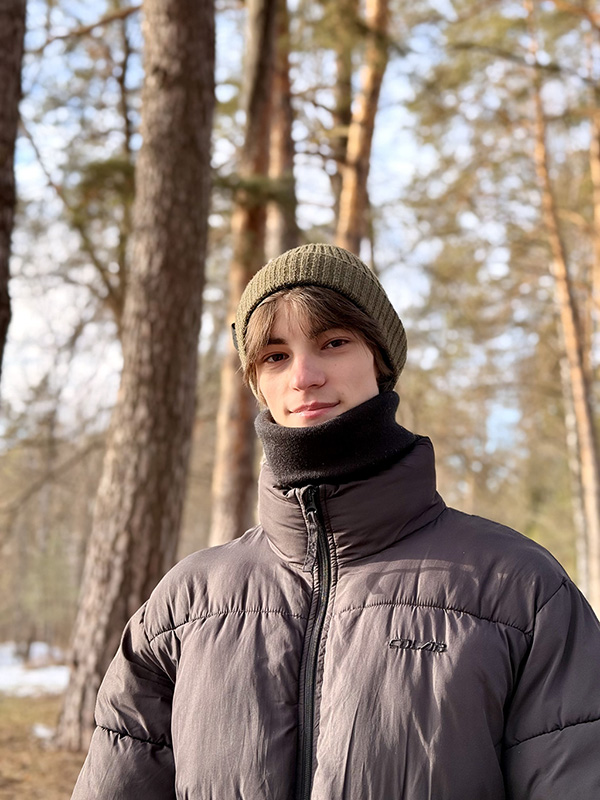
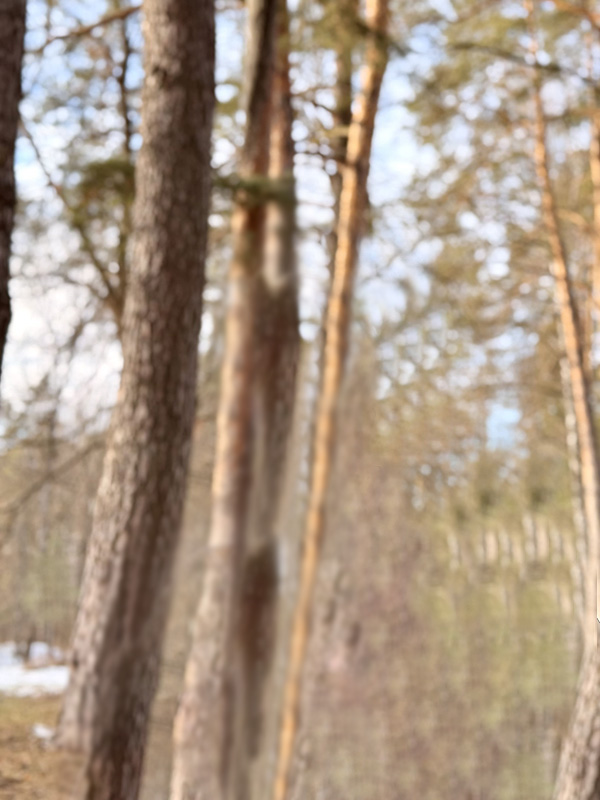
card parallax add

diff --git a/src/App.vue b/src/App.vue
@@ -21,7 +21,42 @@ export default {
   methods: {
     toggleFlip() {
       this.isFlipped = !this.isFlipped
+      const upperImage = document.querySelector('.card-img-upper')
+      const lowerImage = document.querySelector('.card-img')
+      if (!this.isFlipped) {
+        upperImage.style.transform = `translate(-100px, 50px) scale(1.25)`
+        lowerImage.style.transform = `scale(1.5)`
+        setTimeout(() => {
+          upperImage.style.transform = `translate(0, 0) scale(1.05)` // Возвращаем на место
+          lowerImage.style.transform = `scale(1)`
+        }, 50)
+        setTimeout(() => {
+          document.addEventListener('mousemove', this.handleParallax)
+        }, 800)
+      } else {
+        document.removeEventListener('mousemove', this.handleParallax)
+        upperImage.style.transform = `translate(-100px, 50px) scale(1.25)`
+        lowerImage.style.transform = `scale(1.5)`
+      }
     },
+    handleParallax(event) {
+      if (this.isFlipped) {
+        const upperImage = document.querySelector('.card-img-upper')
+        const lowerImage = document.querySelector('.card-img')
+        upperImage.style.transform = 'translate(0, 0)'
+        lowerImage.style.transform = 'translate(0, 0)'
+        return
+      }
+
+      const cardBlock = document.querySelector('.card-img-block')
+      const upperImage = document.querySelector('.card-img-upper')
+      const { left, top, width, height } = cardBlock.getBoundingClientRect()
+      const x = (event.clientX - (left + width / 2)) / 200
+      const y = (event.clientY - (top + height / 2)) / 200
+
+      upperImage.style.transform = `translate(${x}px, ${y}px) scale(1.05)`
+    },
+
     copyEmail(event) {
       console.log(event.clientX, event.clientY)
       navigator.clipboard.writeText('ivantimofeev1912@gmail.com')
@@ -51,7 +86,7 @@ export default {
     this.startTyping()
 
     setTimeout(() => {
-      this.isFlipped = false
+      this.toggleFlip()
     }, 1000)
 
     window.addEventListener('resize', this.checkScreen)
@@ -60,6 +95,7 @@ export default {
   unmounted() {
     window.removeEventListener('scroll', this.mouseMove)
     window.removeEventListener('resize', this.checkScreen)
+    document.removeEventListener('mousemove', this.handleParallax)
   },
 }
 </script>
@@ -82,7 +118,10 @@ export default {
               <img class="card-back-img" src="./assets/imgs/Card_back.svg" alt="" />
             </div>
             <div class="card">
-              <img class="card-img" src="./assets/imgs/my_photo_v2.jpg" alt="" />
+              <div class="card-img-block">
+                <img class="card-img-upper" src="./assets/imgs/my_photo_v2.png" alt="" />
+                <img class="card-img" src="./assets/imgs/my_photo_v2_bg.jpg" alt="" />
+              </div>
               <h4 class="card-text">Тимофеев Иван</h4>
               <p class="card-text-p">
                 <img class="card-text-p-img" src="./assets/imgs/Map pin.svg" alt="" /> Москва

diff --git a/src/App.sass b/src/App.sass
@@ -96,13 +96,33 @@ a
     border-radius: 10px
     //border: 2px solid #6f6f6f
     background-color: #ffffff
-    box-shadow: 4px 4px 8px 0px rgba(12, 12, 12, 0.32)
+    box-shadow: 0px 0px 8px 0px rgba(12, 12, 12, 0.32)
     &-img
+        position: absolute
         margin: 0 0 10px 0
         width: 240px
         height: 280px
         border-radius: 10px
         object-fit: cover
+        transition: transform 0.5s ease-out
+        will-change: transform
+        &-upper
+            position: absolute
+            z-index: 2
+            margin: 0 0 10px 0
+            width: 240px
+            height: 280px
+            border-radius: 10px
+            object-fit: cover
+            transition: transform 0.5s ease-out
+            will-change: transform
+        &-block
+            position: relative
+            margin: 0 0 10px 0
+            width: 240px
+            height: 280px
+            border-radius: 10px
+            overflow: hidden
         
     &-text
         all: unset
@@ -139,7 +159,7 @@ a
         height: 390px
         border-radius: 10px
         //border: 2px solid #6f6f6f
-        box-shadow: 4px 4px 8px 0px rgba(12, 12, 12, 0.32)
+        box-shadow: 0px 0px 8px 0px rgba(12, 12, 12, 0.32)
         transform: rotateY(180deg)
         &-img
             width: 250px

diff --git a/src/App.css b/src/App.css
@@ -103,15 +103,38 @@ a {
   height: 390px;
   border-radius: 10px;
   background-color: #ffffff;
-  box-shadow: 4px 4px 8px 0px rgba(12, 12, 12, 0.32);
+  box-shadow: 0px 0px 8px 0px rgba(12, 12, 12, 0.32);
 }
 .card-img {
+  position: absolute;
   margin: 0 0 10px 0;
   width: 240px;
   height: 280px;
   border-radius: 10px;
   -o-object-fit: cover;
      object-fit: cover;
+  transition: transform 0.5s ease-out;
+  will-change: transform;
+}
+.card-img-upper {
+  position: absolute;
+  z-index: 2;
+  margin: 0 0 10px 0;
+  width: 240px;
+  height: 280px;
+  border-radius: 10px;
+  -o-object-fit: cover;
+     object-fit: cover;
+  transition: transform 0.5s ease-out;
+  will-change: transform;
+}
+.card-img-block {
+  position: relative;
+  margin: 0 0 10px 0;
+  width: 240px;
+  height: 280px;
+  border-radius: 10px;
+  overflow: hidden;
 }
 .card-text {
   all: unset;
@@ -150,7 +173,7 @@ a {
   width: 260px;
   height: 390px;
   border-radius: 10px;
-  box-shadow: 4px 4px 8px 0px rgba(12, 12, 12, 0.32);
+  box-shadow: 0px 0px 8px 0px rgba(12, 12, 12, 0.32);
   transform: rotateY(180deg);
 }
 .card-back-img {
